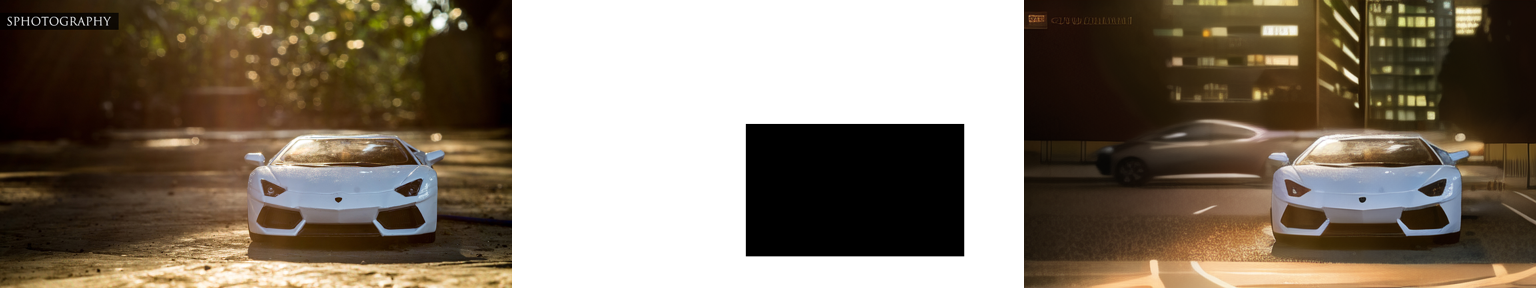
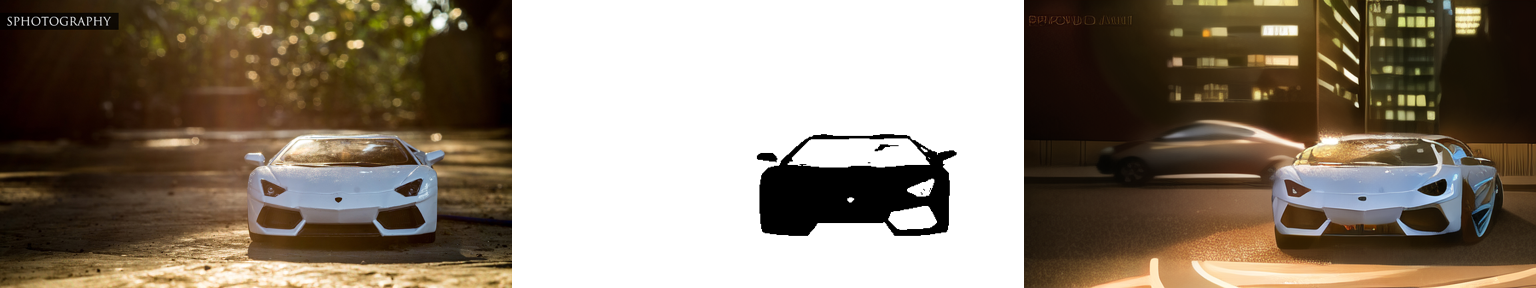
fixed masker and added exmaple images

diff --git a/example_background_swap.py b/example_background_swap.py
@@ -19,10 +19,10 @@ class DTYPE(enum.Enum):
 @app.command()
 def run_inpainting(
     image_path: Path = typer.Option(
-        default=Path("images/lambo.jpg"), help="Path to input image"
+        default=Path("images/watch.png"), help="Path to input image"
     ),
     save_path: Path = typer.Option(
-        default=Path("images/inpainting_lambo.png"), help="Saves output image to *save_path*"
+        default=Path("images/inpainting_watch_test.png"), help="Saves output image to *save_path*"
     ),
     save_concat: bool = typer.Option(
         default=True, help="Saves concatenated image, mask and inpaint to *save_path*"
@@ -81,26 +81,32 @@ def run_inpainting(
     mask = PIL.Image.fromarray(mask).convert("RGB")
     mask.thumbnail((max_image_side, max_image_side))
 
-    image_result = pipeline(
-        prompt=prompt,
-        image=image,
-        mask_image=mask,
-        strength=strength,
-        num_inference_steps=num_inference_steps,
-        guidance_scale=guidance_scale,
-        generator=torch.manual_seed(seed),
-    ).images[0]
+    for i in range(30):  # Iterate over 30 different seeds
+        current_seed = seed + i  # Increment seed for each iteration
+        image_result = pipeline(
+            prompt=prompt,
+            image=image,
+            mask_image=mask,
+            strength=strength,
+            num_inference_steps=num_inference_steps,
+            guidance_scale=guidance_scale,
+            generator=torch.manual_seed(current_seed),
+        ).images[0]
 
-    if save_concat:
-        # Concat original image, mask, and inpainted image
-        concat = PIL.Image.new("RGB", (image.width * 3, image.height))
-        concat.paste(image, (0, 0))
-        concat.paste(mask, (image.width, 0))
-        concat.paste(image_result, (image.width * 2, 0))
+        if save_concat:
+            # Concat original image, mask, and inpainted image
+            concat = PIL.Image.new("RGB", (image.width * 3, image.height))
+            concat.paste(image, (0, 0))
+            concat.paste(mask, (image.width, 0))
+            concat.paste(image_result, (image.width * 2, 0))
 
-        concat.save(save_path)
-    else:
-        image_result.save(save_path)
+            # Save each concatenated image with a unique filename
+            concat_save_path = save_path.parent / f"{save_path.stem}_seed_{current_seed}{save_path.suffix}"
+            concat.save(concat_save_path)
+        else:
+            # Save each result image with a unique filename
+            result_save_path = save_path.parent / f"{save_path.stem}_seed_{current_seed}{save_path.suffix}"
+            image_result.save(result_save_path)
 
 if __name__ == "__main__":
     app()

diff --git a/image_masker/image_masker.py b/image_masker/image_masker.py
@@ -1,5 +1,3 @@
-# image_masker.py
-
 import cv2
 import numpy as np
 
@@ -24,31 +22,23 @@ def select_roi(image):
     """
     return cv2.selectROI('Select ROI', image, True)
 
-def create_mask(image, roi, inverse=True):
+def create_mask(image, roi):
     """
-    Creates a binary mask for the image based on the selected ROI. 
-    The mask will be strictly black and white.
+    Creates a mask for the image based on the selected ROI using GrabCut algorithm.
 
     :param image: Source image.
-    :param roi: Region of Interest (x, y, width, height).
-    :param inverse: If True, the area outside the ROI is white. Defaults to False.
-    :return: Binary mask image.
+    :param roi: Region of Interest.
+    :return: Masked image.
     """
     mask = np.zeros(image.shape[:2], dtype=np.uint8)
+    bgdmodel = np.zeros((1, 65), np.float64)
+    fgdmodel = np.zeros((1, 65), np.float64)
+    cv2.grabCut(image, mask, roi, bgdmodel, fgdmodel, 10, mode=cv2.GC_INIT_WITH_RECT)
 
-    if inverse:
-        # Inverse mask: the area outside the ROI is white
-        mask[:] = 255  # Set the whole mask to white
-        mask[int(roi[1]):int(roi[1] + roi[3]), int(roi[0]):int(roi[0] + roi[2])] = 0  # Set ROI to black
-    else:
-        # Regular mask: the area inside the ROI is white
-        mask[int(roi[1]):int(roi[1] + roi[3]), int(roi[0]):int(roi[0] + roi[2])] = 255  # Set ROI to white
+    # Create a binary mask where the background is white (255) and the foreground (object) is black (0)
+    mask2 = np.where((mask == 2) | (mask == 0), 255, 0).astype('uint8')
 
-    return mask
-
-    return cv2.bitwise_and(image, image, mask=mask2)
-
-
+    return mask2
 
 def main(image_path):
     """
@@ -58,8 +48,8 @@ def main(image_path):
     """
     src = resize_image(image_path)
     r = select_roi(src)
-    result = create_mask(src, r)
-    cv2.imshow("Masked Image", result)
+    mask = create_mask(src, r)
+    cv2.imshow("Mask", mask)
     cv2.waitKey(0)
     cv2.destroyAllWindows()
 
